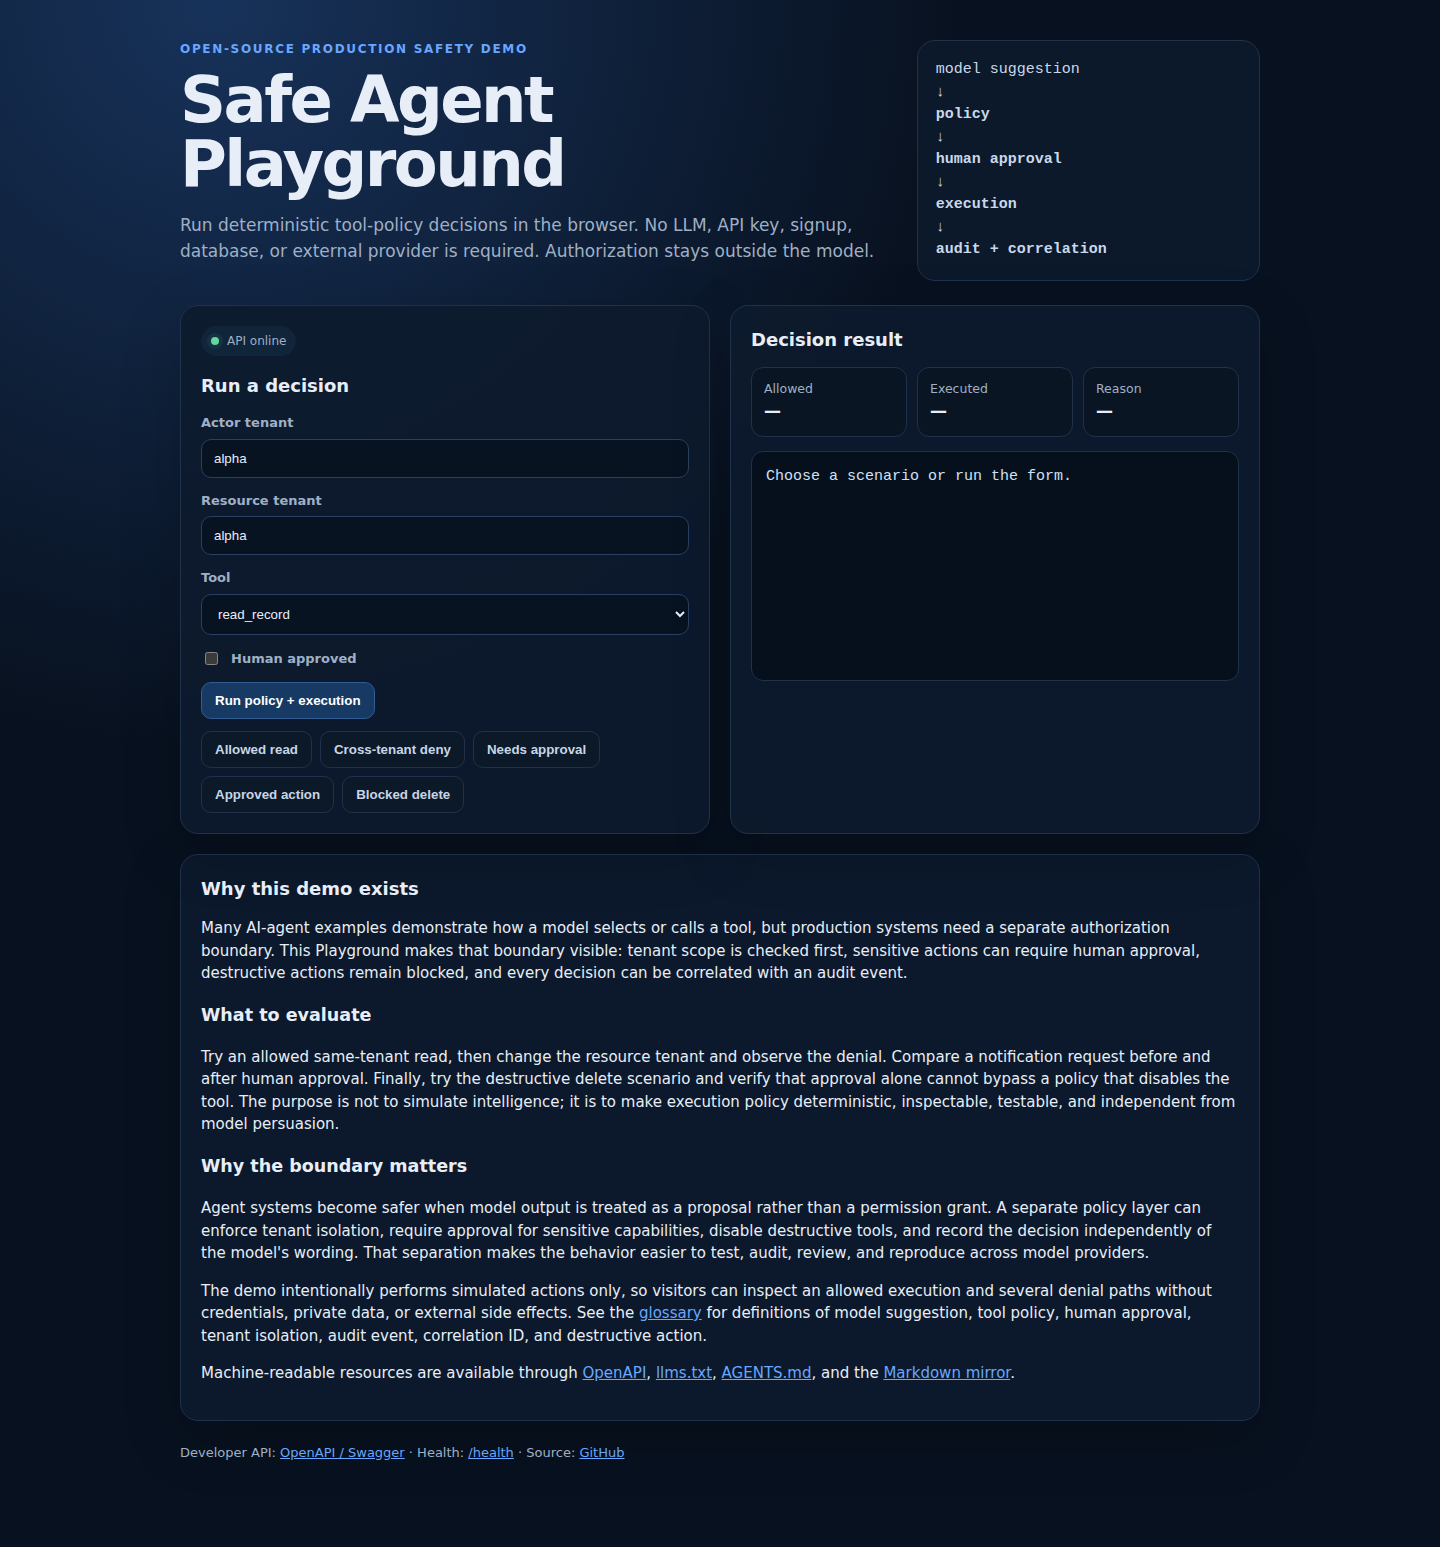
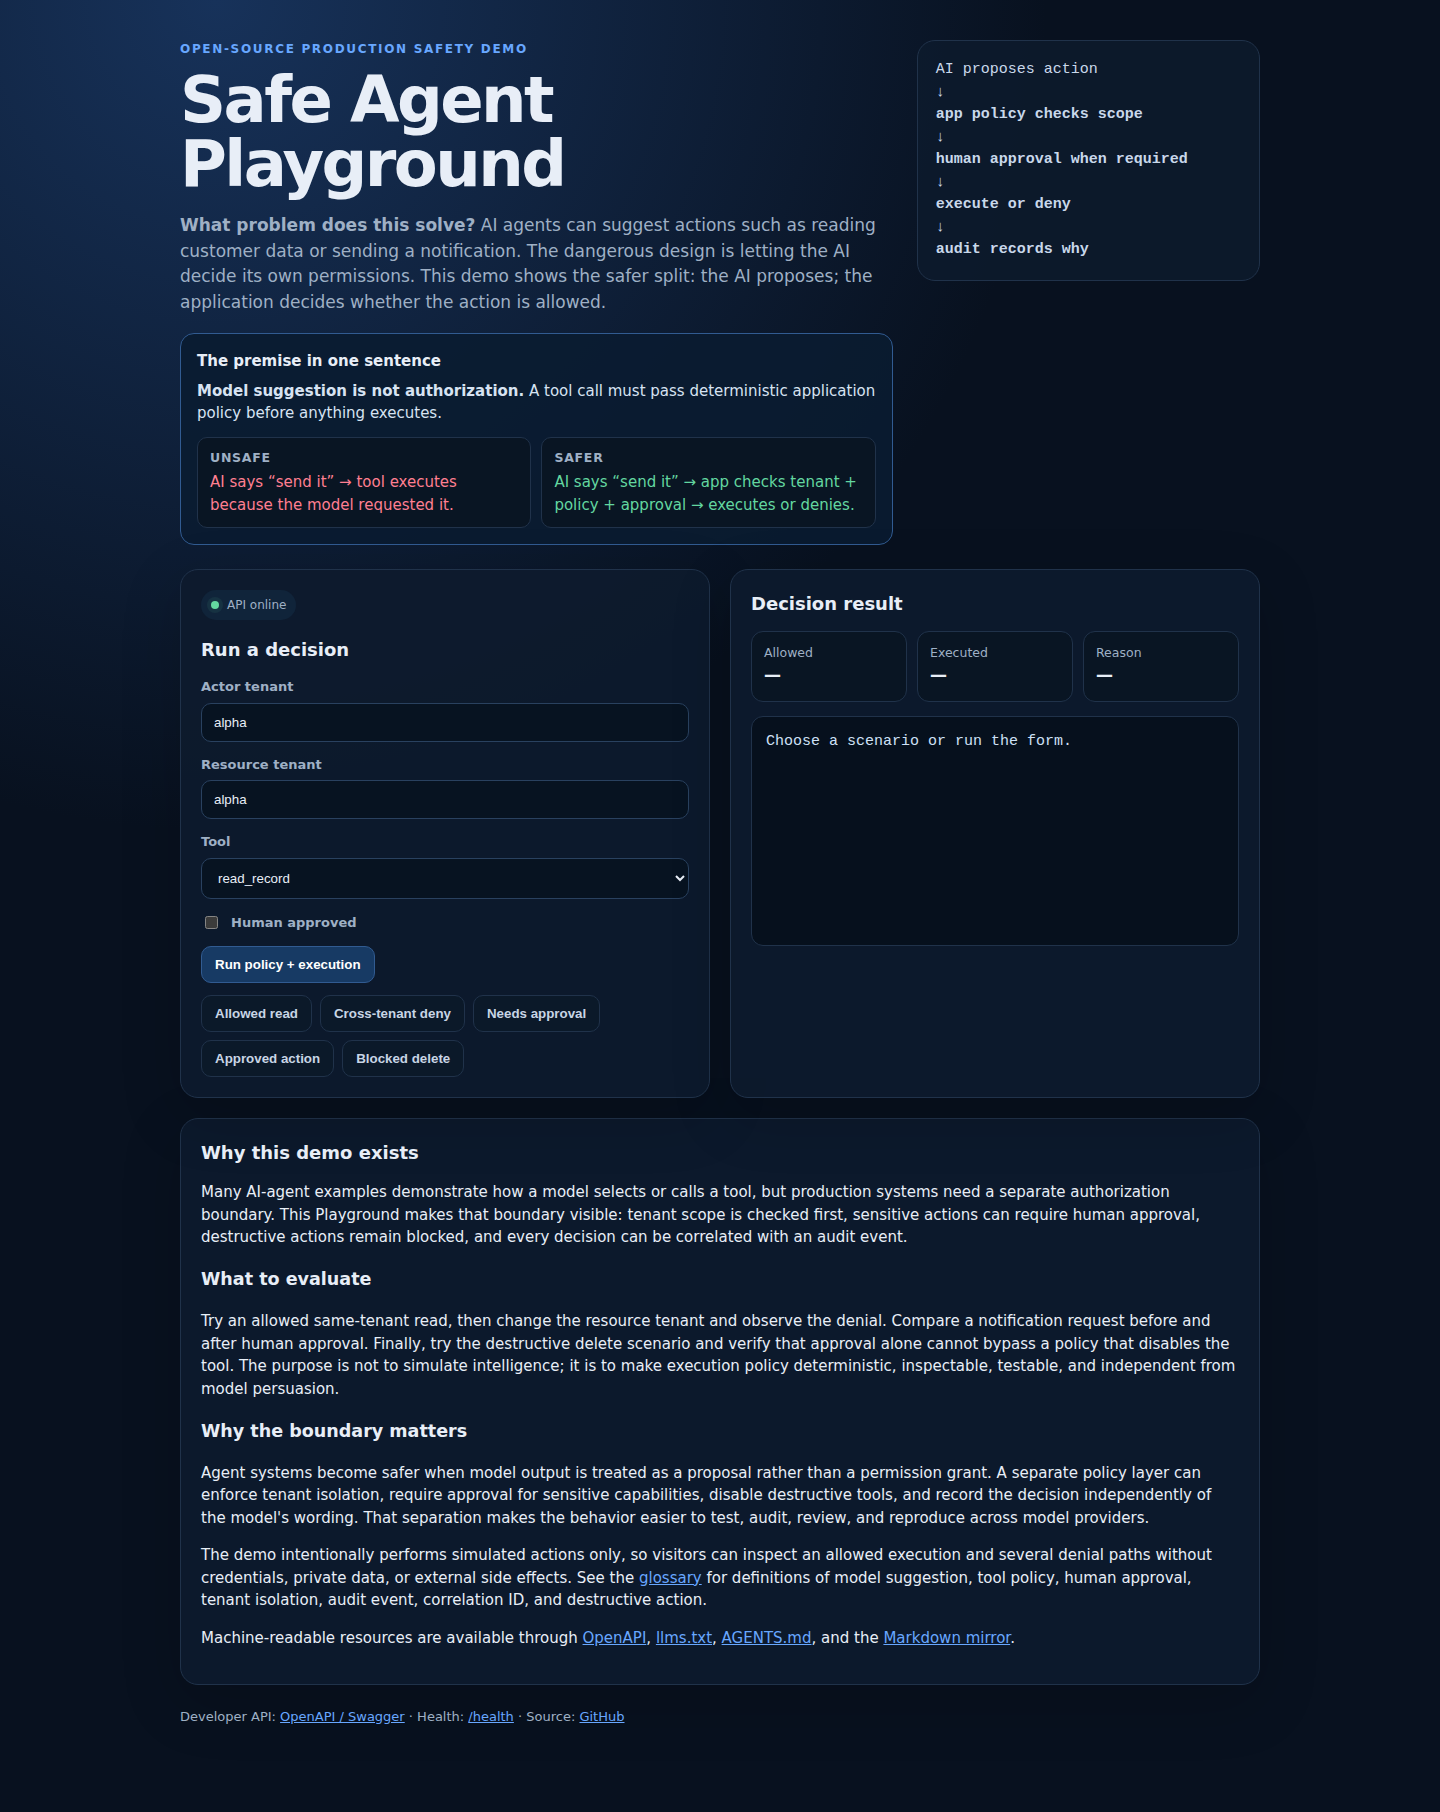
fix: clarify the Playground premise for first-time visitors
Refs #31. Clarify the first-screen problem statement and add unsafe-vs-safer authorization examples based on real external feedback. Preserve policy, tenant, approval and audit semantics.

diff --git a/examples/safe-agent-api/app/playground.py b/examples/safe-agent-api/app/playground.py
@@ -14,6 +14,14 @@ PLAYGROUND_HTML = r'''<!doctype html>
     .eyebrow { text-transform:uppercase; letter-spacing:.14em; color:var(--accent); font-weight:700; font-size:12px; }
     h1 { font-size:clamp(34px,6vw,64px); line-height:1; margin:10px 0 16px; letter-spacing:-.04em; }
     .lead { color:var(--muted); max-width:760px; font-size:17px; }
+    .premise { margin-top:18px; border:1px solid #315b91; background:rgba(10,28,49,.9); border-radius:14px; padding:16px; }
+    .premise strong { display:block; margin-bottom:7px; font-size:15px; }
+    .premise p { margin:0; color:#d7e3f2; }
+    .example { display:grid; grid-template-columns:1fr 1fr; gap:10px; margin-top:12px; }
+    .example > div { border:1px solid var(--line); border-radius:10px; padding:11px 12px; background:#091523; }
+    .example small { display:block; color:var(--muted); margin-bottom:4px; font-weight:700; text-transform:uppercase; letter-spacing:.06em; }
+    .unsafe { color:var(--bad); }
+    .safe { color:var(--good); }
     .flow { border:1px solid var(--line); background:rgba(13,27,45,.82); border-radius:18px; padding:18px; font-family:ui-monospace,SFMono-Regular,Menlo,monospace; color:#c9d8ea; }
     .grid { display:grid; grid-template-columns:1fr 1fr; gap:20px; }
     .card { border:1px solid var(--line); background:rgba(13,27,45,.9); border-radius:18px; padding:20px; box-shadow:0 18px 60px rgba(0,0,0,.18); }
@@ -38,7 +46,7 @@ PLAYGROUND_HTML = r'''<!doctype html>
     .reason-good { color:var(--good); }
     .reason-bad { color:var(--bad); }
     .footer { color:var(--muted); margin-top:22px; font-size:13px; }
-    @media (max-width:820px) { .hero,.grid { grid-template-columns:1fr; } .result-summary { grid-template-columns:1fr; } }
+    @media (max-width:820px) { .hero,.grid,.example { grid-template-columns:1fr; } .result-summary { grid-template-columns:1fr; } }
   </style>
 </head>
 <body>
@@ -47,9 +55,18 @@ PLAYGROUND_HTML = r'''<!doctype html>
       <div>
         <div class="eyebrow">Open-source production safety demo</div>
         <h1>Safe Agent Playground</h1>
-        <p class="lead">Run deterministic tool-policy decisions in the browser. No LLM, API key, signup, database, or external provider is required. Authorization stays outside the model.</p>
+        <p class="lead"><strong>What problem does this solve?</strong> AI agents can suggest actions such as reading customer data or sending a notification. The dangerous design is letting the AI decide its own permissions. This demo shows the safer split: the AI proposes; the application decides whether the action is allowed.</p>
+
+        <div class="premise" aria-label="Unsafe versus safe agent authorization example">
+          <strong>The premise in one sentence</strong>
+          <p><b>Model suggestion is not authorization.</b> A tool call must pass deterministic application policy before anything executes.</p>
+          <div class="example">
+            <div><small>Unsafe</small><span class="unsafe">AI says “send it” → tool executes because the model requested it.</span></div>
+            <div><small>Safer</small><span class="safe">AI says “send it” → app checks tenant + policy + approval → executes or denies.</span></div>
+          </div>
+        </div>
       </div>
-      <div class="flow">model suggestion<br>↓<br><b>policy</b><br>↓<br><b>human approval</b><br>↓<br><b>execution</b><br>↓<br><b>audit + correlation</b></div>
+      <div class="flow">AI proposes action<br>↓<br><b>app policy checks scope</b><br>↓<br><b>human approval when required</b><br>↓<br><b>execute or deny</b><br>↓<br><b>audit records why</b></div>
     </section>
 
     <section class="grid">

diff --git a/examples/safe-agent-api/tests/test_api.py b/examples/safe-agent-api/tests/test_api.py
@@ -10,6 +10,12 @@ def test_playground_is_public_and_self_contained() -> None:
     assert response.status_code == 200
     assert "Safe Agent Playground" in response.text
     assert "/v1/run-demo" in response.text
+    assert "What problem does this solve?" in response.text
+    assert "The premise in one sentence" in response.text
+    assert "Model suggestion is not authorization." in response.text
+    assert "Unsafe" in response.text
+    assert "Safer" in response.text
+    assert "AI proposes action" in response.text
     assert "Why this demo exists" in response.text
     assert "Why the boundary matters" in response.text
     assert 'href="/glossary"' in response.text
